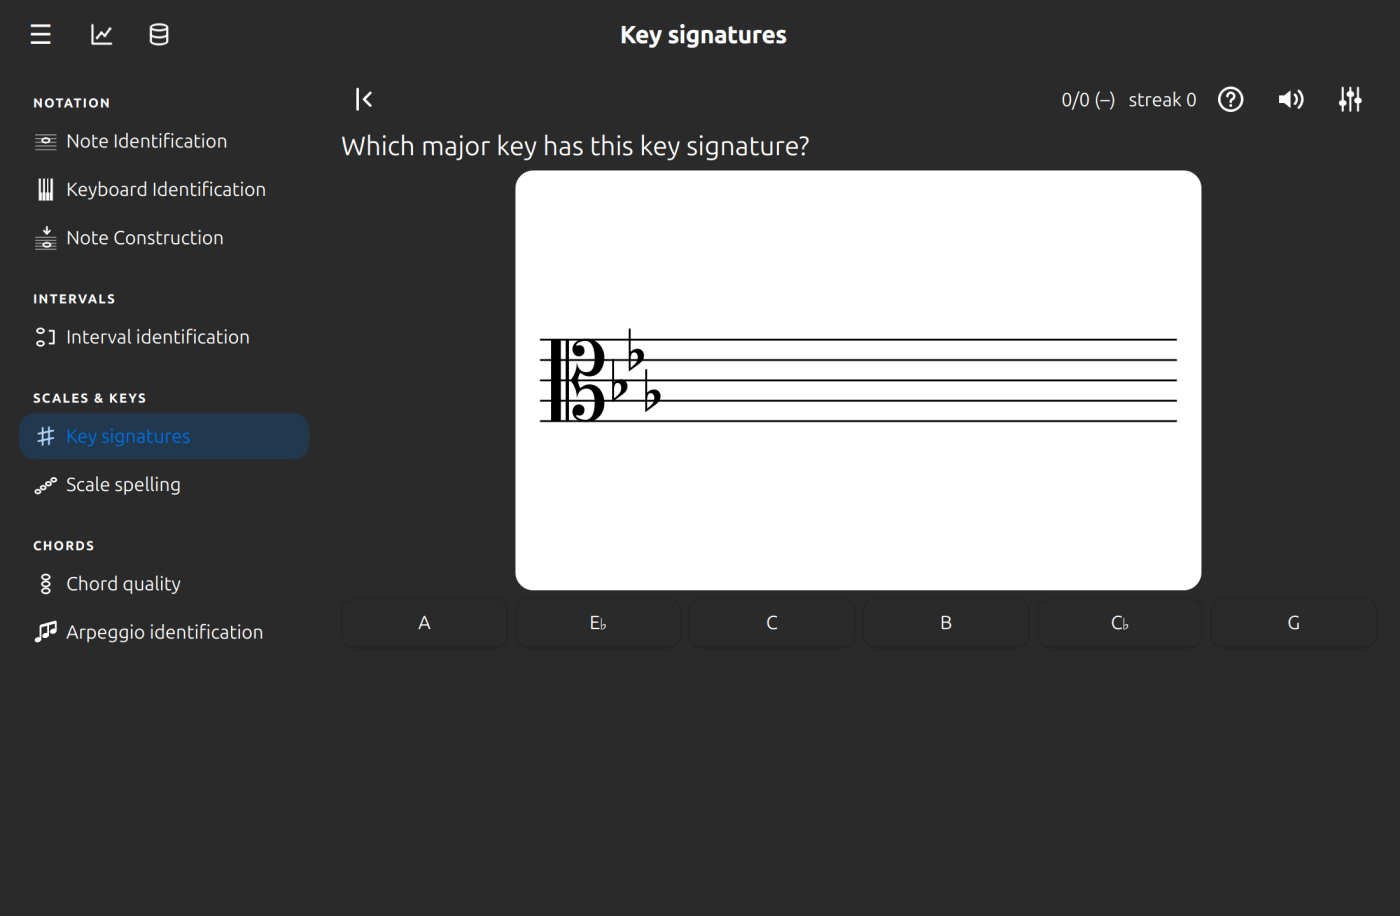
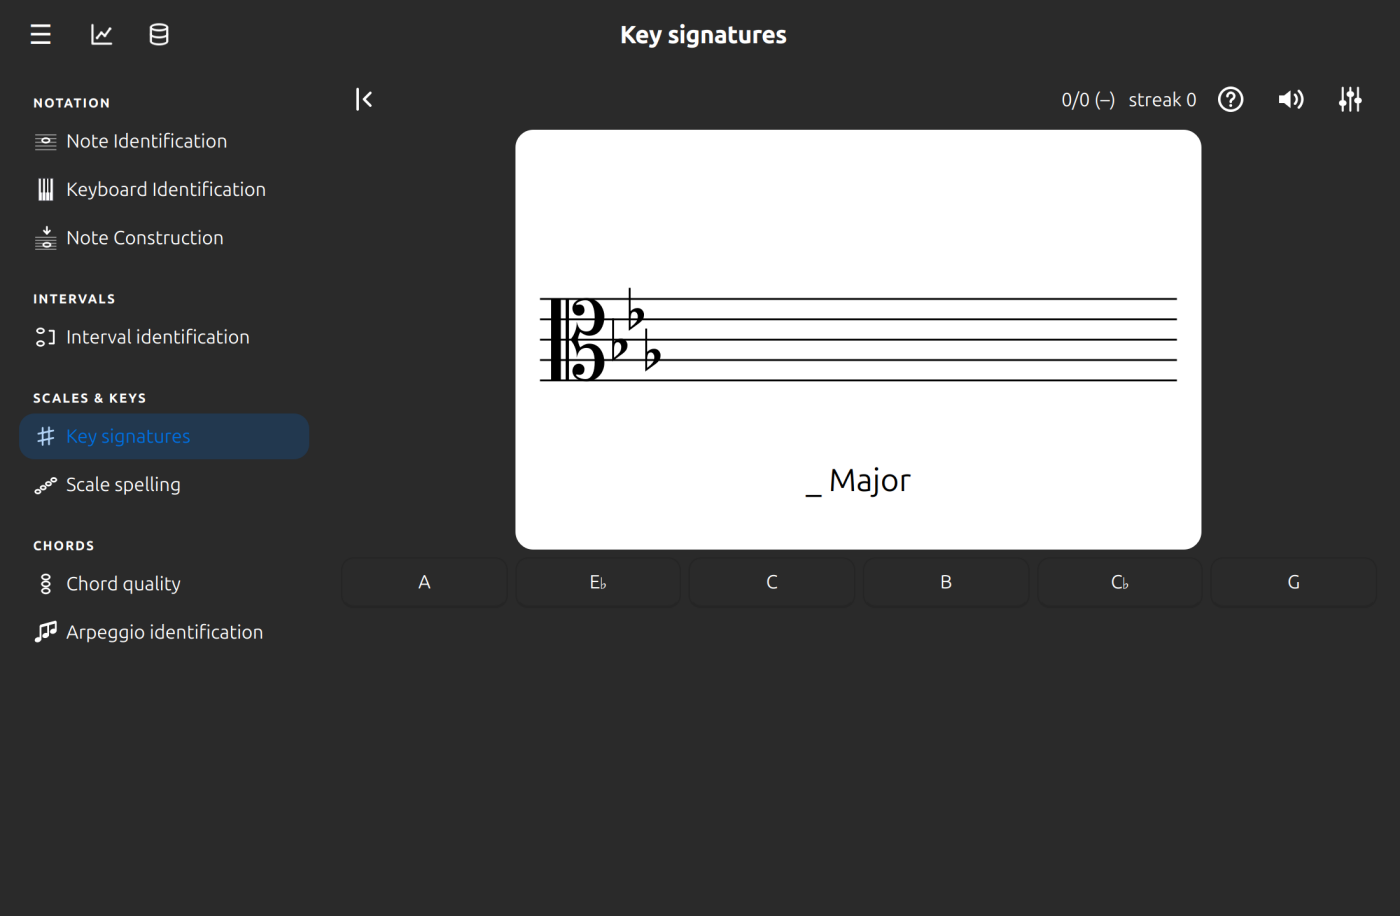
Write the kind of scale under the staff and stop playing it
Reading a key signature now shows "_ Major", "_ minor" or "_ Dorian"
inside the staff card, below the staff, where the tonic goes, instead
of a sentence above it. Counting questions keep their line of text.

A right answer no longer plays the scale, so the Question no longer
carries notes to play. Questions stored with them still load.

diff --git a/tests/test_key_signatures.py b/tests/test_key_signatures.py
@@ -7,7 +7,6 @@ from alto import settings
 from alto.exercises.base import Question
 from alto.exercises.library import KeySignatures
 from alto.learning import stats
-from alto.theory.pitch import Note
 from alto.theory.scales import MODE_DEGREE, SCALES, build, mode_tonic
 from alto.ui import settings_panel as sp
 from alto.ui.exercise_view import ExerciseView
@@ -57,9 +56,9 @@ def test_reading_a_signature_shows_a_staff_and_asks_for_the_tonic():
     for q in questions(200, questions={"read"}, modes={"Dorian"}, clefs={"alto"}, keys={2}):
         assert q.show_staff and q.staff == [] and q.clef == "alto" and q.key == 2
         assert q.prompt == "Which Dorian scale has this key signature?"
+        assert q.caption == "_ Dorian"  # written under the staff, where the tonic goes
         assert q.answer == "E" and q.answer in q.choices and len(q.choices) == 6 and len(set(q.choices)) == 6
-        assert [n[0].name for n in q.play] == ["E", "F♯", "G", "A", "B", "C♯", "D", "E"]  # E Dorian, up to its octave
-        assert q.play[-1][0].octave == q.play[0][0].octave + 1
+        assert q.explanation.endswith("E F♯ G A B C♯ D E")  # E Dorian, up to its octave
         assert "2 sharps: E Dorian" in q.explanation
 
 
@@ -87,7 +86,7 @@ def test_a_settings_choice_with_nothing_ticked_falls_back_to_something_sensible(
 def test_a_question_comes_back_with_its_staff_and_its_scale():
     for q in questions(50, questions={"read"}):
         again = Question.from_dict(q.to_dict())
-        assert again == q and again.show_staff and again.play == q.play and again.item_key() == q.item_key()
+        assert again == q and again.show_staff and again.item_key() == q.item_key()
 
 
 def test_the_exercise_signature_follows_the_settings():
@@ -104,15 +103,16 @@ def test_a_key_signature_question_is_described_by_its_signature_in_the_lists_of_
 # -- the exercise screen ----------------------------------------------------------------------------------------------
 
 
-def test_a_signature_is_drawn_and_the_right_answer_plays_the_scale(app, monkeypatch):
-    played = []
+def test_a_signature_is_drawn_and_the_right_answer_plays_only_the_ordinary_chime(app, monkeypatch):
+    played, chimes = [], []
     monkeypatch.setattr("alto.ui.exercise_view.sounds.play_notes", lambda notes: played.append(notes))
+    monkeypatch.setattr("alto.ui.exercise_view.sounds.play_correct", lambda streak: chimes.append(streak))
     settings.key_signatures.questions = {"read"}
     view = ExerciseView(KeySignatures(), random.Random(3))
     q = view.question
     assert q is not None and view.staff.isVisibleTo(view) and view.staff.key == q.key and view.staff.clef == q.clef
     next(b for b in view.buttons if b.text() == q.answer).click()
-    assert played == [q.play]
+    assert played == [] and len(chimes) == 1  # no scale is played
     view._advance.stop()
 
 
@@ -127,13 +127,17 @@ def test_a_counting_question_shows_no_staff(app):
     view._advance.stop()
 
 
-def test_the_preview_shows_the_signature_and_plays_the_scale(app, monkeypatch):
-    played = []
-    monkeypatch.setattr("alto.ui.question_preview.sounds.play_notes", lambda notes: played.append(notes))
+def test_the_preview_shows_the_signature_and_the_caption(app):
     q = questions(1, questions={"read"})[0]
     dialog = QuestionPreview("Key signatures", q)
-    next(b for b in dialog.findChildren(QPushButton) if b.text() == "Play").click()
-    assert played == [q.play] and dialog.grab().width() > 0
+    assert q.caption and dialog.grab().width() > 0
+    assert not [b for b in dialog.findChildren(QPushButton) if b.text() == "Play"]  # there is nothing to play
+
+
+def test_a_question_stored_with_a_scale_to_play_still_loads():
+    q = questions(1, questions={"read"})[0]
+    old = {**q.to_dict(), "play": [[{"octave": 4, "letter": 0, "accidental": 0}]]}
+    assert Question.from_dict(old) == q
 
 
 # -- the settings pane ------------------------------------------------------------------------------------------------
@@ -215,6 +219,24 @@ def test_the_exercises_help_describes_both_kinds_of_question():
     assert "drawn on a staff" in text and "how many sharps or flats" in text and "Dorian" in text
 
 
-def test_the_played_scale_runs_from_the_tonic_up_to_its_octave():
+def test_the_explanation_spells_the_scale_from_the_tonic_up_to_its_octave():
     q = questions(1, questions={"read"}, keys={0}, modes={MAJOR})[0]
-    assert [n[0] for n in q.play][0] == Note(4, 0) and q.play[-1][0] == Note(5, 0)  # C major, C4 to C5
+    assert q.explanation.endswith("C D E F G A B C")
+
+
+def test_the_kind_of_scale_is_written_under_the_staff_not_above_it(app):
+    import random
+
+    from alto.exercises.library import KeySignatures
+    from alto.ui.exercise_view import ExerciseView
+    asked = questions(200)
+    assert {q.caption for q in asked if q.show_staff} == {"_ Major", "_ minor"}
+    assert all(q.caption == "" for q in asked if not q.show_staff)  # counting questions keep their line of text
+    view = ExerciseView(KeySignatures(), random.Random(1))
+    view.resize(900, 600)
+    view.show()
+    for _ in range(30):
+        q = view.question
+        assert q is not None
+        assert view.staff.caption == q.caption and view.prompt.isHidden() == bool(q.caption or not q.prompt)
+        view.next_question()

diff --git a/alto/ui/staff.py b/alto/ui/staff.py
@@ -1,6 +1,6 @@
 from __future__ import annotations
 
-from PySide6.QtCore import QPointF, QSize, Qt
+from PySide6.QtCore import QPointF, QRectF, QSize, Qt
 from PySide6.QtGui import QColor, QFont, QPainter, QPainterPath, QPen, QTransform
 from PySide6.QtWidgets import QSizePolicy, QWidget
 
@@ -81,11 +81,13 @@ class StaffWidget(QWidget):
         self.notation_style: NotationStyle | None = None  # None follows the style chosen in settings
         self.key = 0
         self.value = "whole"
+        self.caption = ""  # text written under the staff, inside the paper
         self._fit_height("treble")
         self.setSizePolicy(QSizePolicy.Policy.Expanding, QSizePolicy.Policy.Preferred)
 
-    def show_notes(self, columns: list[list[Note]], clef: str = "treble", key: int = 0, value: str = "whole") -> None:
-        self.columns, self.clef, self.key, self.value = columns, clef, key, value
+    def show_notes(self, columns: list[list[Note]], clef: str = "treble", key: int = 0, value: str = "whole",
+                   caption: str = "") -> None:
+        self.columns, self.clef, self.key, self.value, self.caption = columns, clef, key, value, caption
         self.note_color = None
         self._fit_height(clef)
         self._fit_width()
@@ -156,6 +158,15 @@ class StaffWidget(QWidget):
             ys = list(staves.values())
             p.drawLine(QPointF(left, ys[0] - 4 * gap), QPointF(left, ys[1]))
             self._brace(p, left - 3, ys[0] - 4 * gap, ys[1], fg, font=font)
+
+        if self.caption:
+            caption_font = QFont(self.font())
+            caption_font.setPixelSize(max(int(gap * 1.6), 12))
+            p.setFont(caption_font)
+            p.setPen(fg)
+            top = max(staves.values()) + 2.5 * gap  # below the lowest staff, clear of its ledger lines
+            p.drawText(QRectF(left, top, right - left, max(self.height() - top - gap, gap * 2)),
+                       Qt.AlignmentFlag.AlignHCenter | Qt.AlignmentFlag.AlignVCenter, self.caption)
 
         n = max(len(self.columns), 1)
         x0 = left + self.note_offset + KEY_STEP * abs(self.key)

diff --git a/alto/ui/exercise_view.py b/alto/ui/exercise_view.py
@@ -179,7 +179,7 @@ class ExerciseView(QWidget):
         self._pending = {}  # 'name' / 'octave' -> (text, button), for two-part answers
         self._busy = False
         self.prompt.setText(q.prompt)
-        self.prompt.setVisible(bool(q.prompt))  # some exercises need no prompt
+        self.prompt.setVisible(bool(q.prompt) and not q.caption)  # some need none; a caption goes on the staff
         construct = q.construct is not None
         self.staff.setVisible((bool(q.staff) or q.show_staff) and not construct)
         self.input_staff.setVisible(construct)
@@ -193,7 +193,7 @@ class ExerciseView(QWidget):
         self.key_staff.show_notes([], "treble", q.key)
         self.keyboard.max_key_width = 30.0 if q.key_staff else 38.0  # leave room for the staff above
         self.keyboard.show_key(q.keyboard.midi if q.keyboard else None, q.keyboard_range)
-        self.staff.show_notes(q.staff, q.clef, q.key, q.value)
+        self.staff.show_notes(q.staff, q.clef, q.key, q.value, q.caption)
         for b in self.buttons:
             b.deleteLater()
         self.buttons = []
@@ -377,7 +377,7 @@ class ExerciseView(QWidget):
         if ok:
             self.answered = True  # the other buttons stay as they are; only the one pressed animates
             self._flash(button, "#2e7d32", staff=True)
-            notes = q.staff or q.play or ([[q.keyboard]] if q.keyboard else [])
+            notes = q.staff or ([[q.keyboard]] if q.keyboard else [])
             if notes:
                 sounds.play_notes(notes)
             else:

diff --git a/alto/ui/question_preview.py b/alto/ui/question_preview.py
@@ -25,7 +25,7 @@ class QuestionPreview(QDialog):
         lay.setSpacing(10)
         title = QLabel(f"<h3>{exercise_name}</h3>")
         lay.addWidget(title)
-        if question.prompt:
+        if question.prompt and not question.caption:
             prompt = QLabel(question.prompt)
             prompt.setWordWrap(True)
             prompt.setStyleSheet("font-size: 14pt;")
@@ -36,7 +36,7 @@ class QuestionPreview(QDialog):
             staff = StaffWidget(max_step=MAX_STEP)
             # a "place this note" question shows the note that was the answer
             notes = q.staff or ([[q.construct]] if q.construct is not None else [])
-            staff.show_notes(notes, q.clef, q.key, q.value)
+            staff.show_notes(notes, q.clef, q.key, q.value, q.caption)
             lay.addWidget(staff, alignment=Qt.AlignmentFlag.AlignHCenter)
         if q.keyboard is not None:
             if q.key_staff:
@@ -63,7 +63,7 @@ class QuestionPreview(QDialog):
         lay.addWidget(info)
 
         buttons = QDialogButtonBox()
-        notes = q.staff or q.play or ([[q.keyboard]] if q.keyboard else [[q.construct]] if q.construct is not None else [])
+        notes = q.staff or ([[q.keyboard]] if q.keyboard else [[q.construct]] if q.construct is not None else [])
         if notes:
             play = QPushButton("Play")
             play.clicked.connect(lambda: sounds.play_notes(notes))

diff --git a/alto/exercises/base.py b/alto/exercises/base.py
@@ -33,7 +33,7 @@ class Question:
     accidentals: bool = False  # show the sharp / flat / natural buttons for a construct question
     accept: tuple[str, ...] = ()  # other answers that count as correct (e.g. the enharmonic name of a black key)
     show_staff: bool = False  # draw the staff even with no notes on it, to show only its clef and key signature
-    play: list[list[Note]] = field(default_factory=list)  # what to play on a right answer when no notes are drawn
+    caption: str = ""  # text written on the staff itself, under the music, in place of the prompt above it
 
     def check_placed(self, note: Note) -> bool:
         """Is this the note we asked for? The spelling and octave must match exactly, so G♯4 is not A♭4."""
@@ -61,7 +61,7 @@ class Question:
     def from_dict(cls, d: dict) -> Question:
         d = dict(d)
         d["staff"] = [[Note(**n) for n in col] for col in d.get("staff", [])]
-        d["play"] = [[Note(**n) for n in col] for col in d.get("play", [])]
+        d.pop("play", None)  # questions stored by an older version carried the notes of a scale to play
         d["keyboard"], d["construct"] = note_from(d.get("keyboard")), note_from(d.get("construct"))
         if d.get("grid") is not None:
             d["grid"] = {k: tuple(v) for k, v in d["grid"].items()}

diff --git a/alto/exercises/library.py b/alto/exercises/library.py
@@ -165,8 +165,10 @@ class KeySignatures(Exercise):
         choices = pick_distractors(correct, near + everyone, 5, rng)
         word = MODE_WORDS.get(mode, f"{mode} scale")
         notes = [*build(tonic, SCALES[mode]), tonic.transpose(Interval(8, "P"))]  # the scale, up to its octave
+        scale = _scale_name(mode)
+        blank = f"_ {scale if scale == 'minor' else scale[0].upper() + scale[1:]}"  # "_ Major", "_ minor", "_ Dorian"
         return Question(f"Which {word} has this key signature?", choices, correct, clef=clef, key=count, show_staff=True,
-                        play=[[n] for n in notes],
+                        caption=blank,
                         explanation=f"{format_key_signature(count)}: {tonic.name} {_scale_name(mode)}: "
                         + " ".join(n.name for n in notes))
 

diff --git a/docs/exercises.md b/docs/exercises.md
@@ -59,8 +59,7 @@ is m3.
 Two kinds of question, asked at random:
 
 - **Read the signature.** A key signature is drawn on a staff and you press the tonic of the scale it belongs to. The
-  question says what kind of scale: "Which major key has this key signature?", "Which minor key ...?" or, for a mode,
-  "Which Dorian scale ...?". A right answer plays the scale.
+  kind of scale is written under the staff with a blank for the tonic: "_ Major", "_ minor" or, for a mode, "_ Dorian".
 - **Count the sharps or flats.** A key is named, such as "How many sharps or flats are in D major?" or "... in E Dorian?",
   and you press how many it has.
 
@@ -73,7 +72,7 @@ In the exercise settings you can choose:
 - **Scales:** major (Ionian), Dorian, Phrygian, Lydian, Mixolydian, minor (Aeolian) and Locrian.
 - **Key signatures:** which of the fifteen signatures, from seven flats to seven sharps, can appear.
 
-{% include shot.html src="key-signatures.png" alt="Key signatures showing three flats on an alto clef staff, asking which major key has this key signature" %}
+{% include shot.html src="key-signatures.png" alt="Key signatures showing three flats on an alto clef staff, with the caption _ Major under the staff" %}
 
 ## Scale spelling
 
